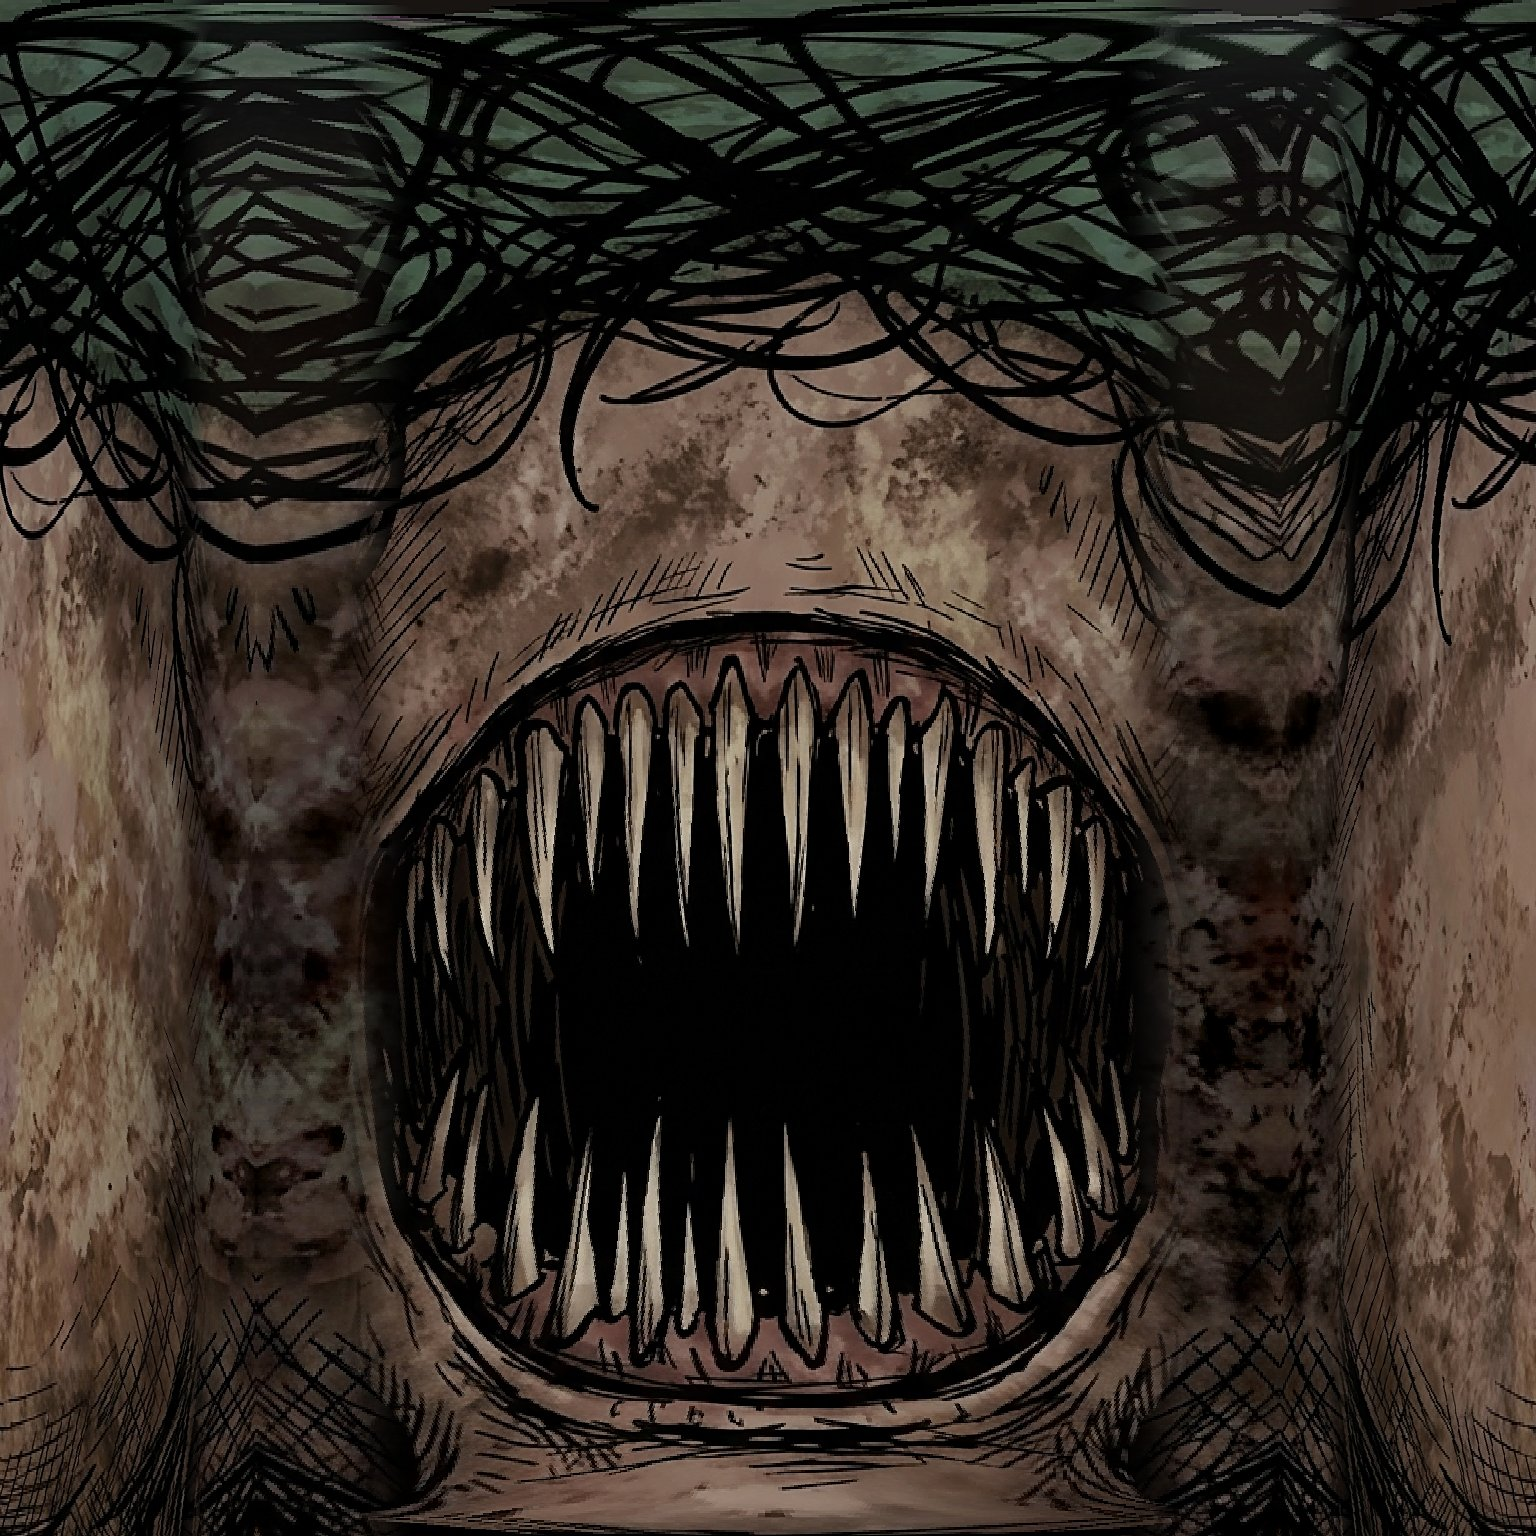
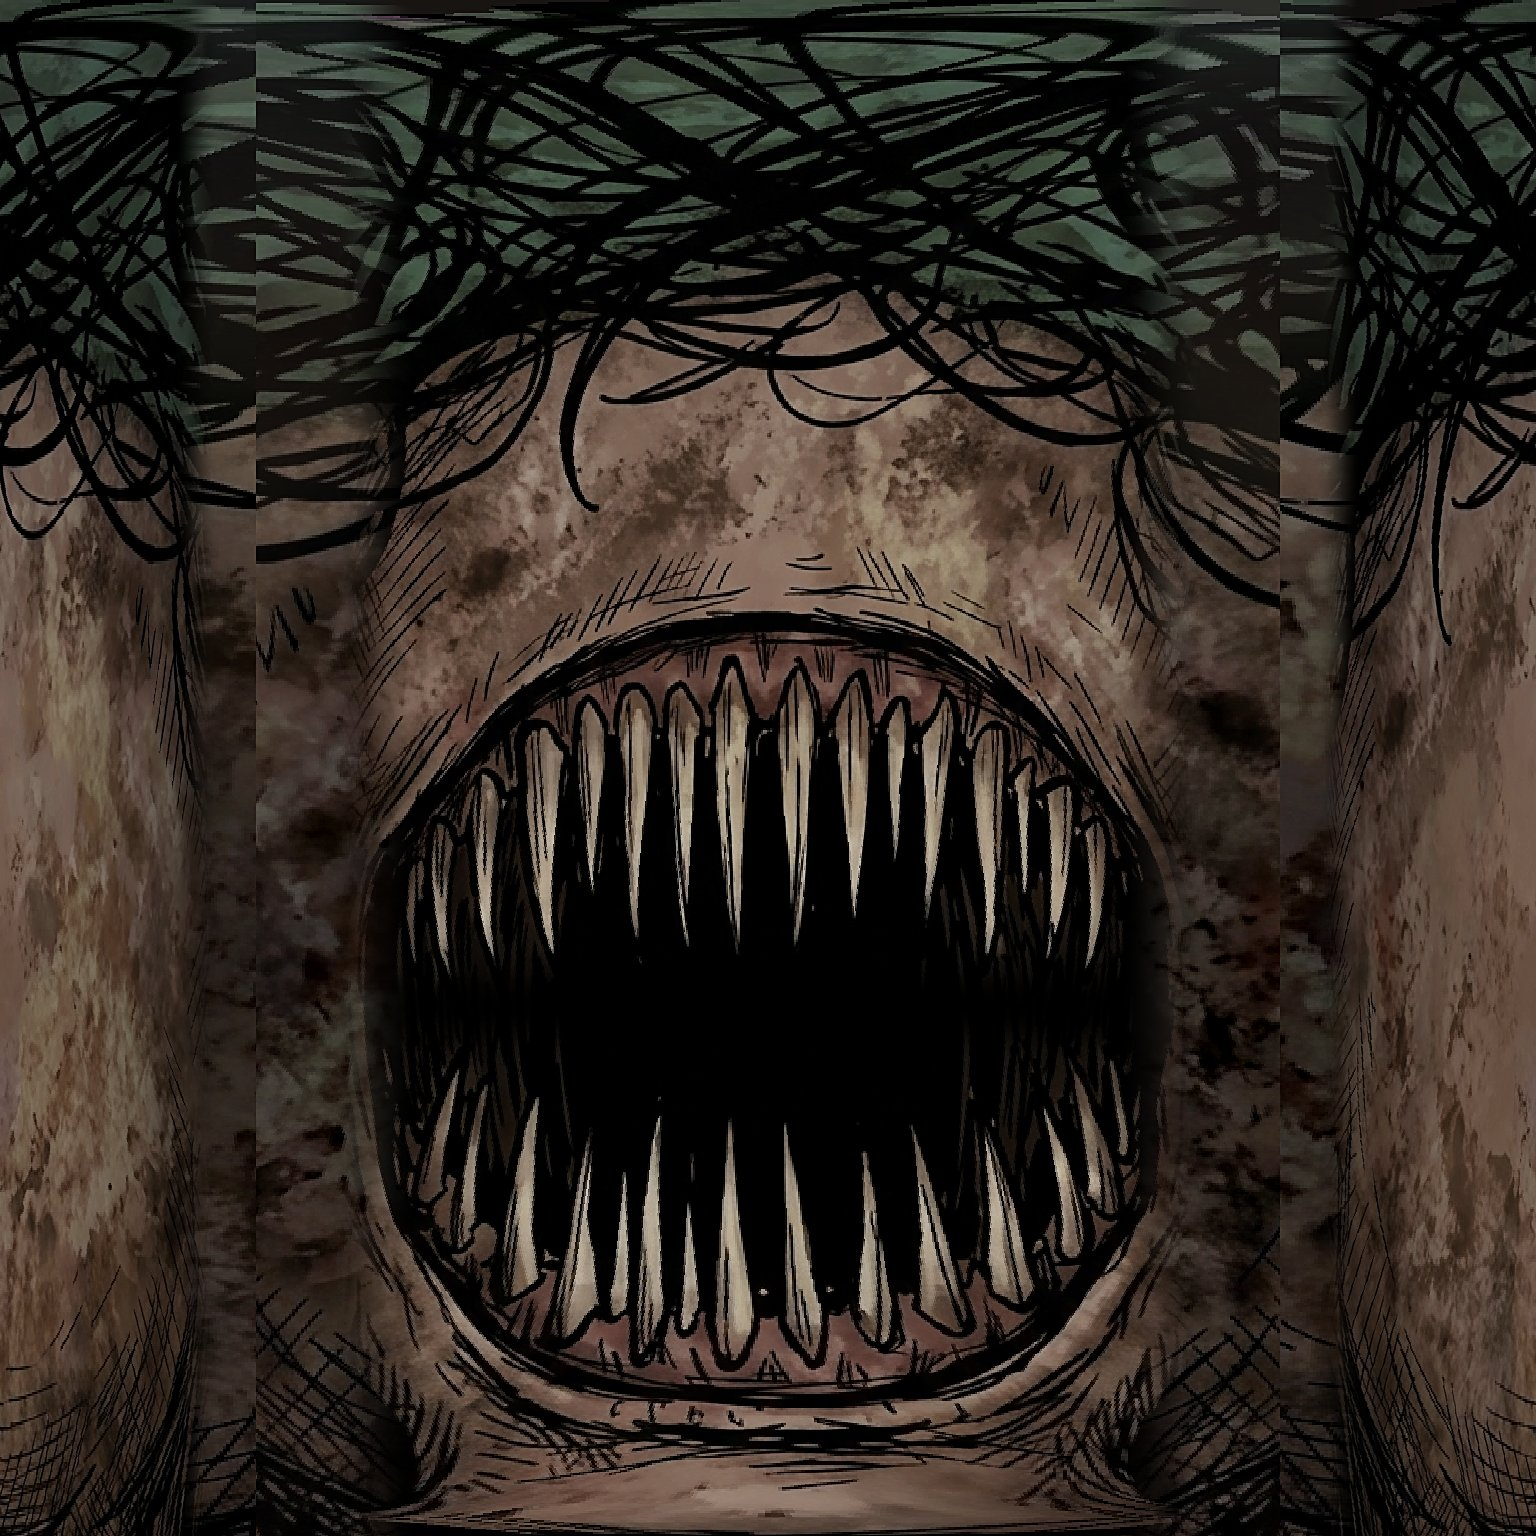
Maw: catch scene faces the camera, side hair, dark visibility
Claude-Session: https://claude.ai/code/session_01Hp3PPRWzBxDPqMYTGtr5h7

diff --git a/src/horror/creatureMaw.js b/src/horror/creatureMaw.js
@@ -16,7 +16,7 @@ const PALM = 0.16;
 const HIPS_Y = 1.29;
 const SPINE_UP = 0.06;
 const CHIN_Y = 1.78;
-const PIVOT = 0.3; // 머리 받침점 (턱에서 잰 높이). 잡히는 장면에서 입이 화면 가운데 온다
+const PIVOT = 0.13; // 머리 받침점 (턱에서 잰 높이). 잡히는 장면에서 입이 화면 가운데 온다
 const SHOULDER = { x: 0.224, y: 0.344 }; // 허리에서 잰 어깨 자리
 const HIP_X = 0.105;
 const HEAD_H = 0.913;
@@ -28,7 +28,7 @@ const HEAD_KEYS = [ // [높이, 반폭, 반두께, 앞뒤 치우침]
   [0.481, 0.3], [0.427, 0.299], [0.374, 0.283], [0.321, 0.271], [0.267, 0.261], [0.214, 0.249], [0.161, 0.234], [0.107, 0.202], [0.054, 0.161], [0.012, 0.09], [0, 0.02],
 ].map(([y, hw]) => [y, hw, hw * 0.86, 0]);
 const TORSO_KEYS = [ // 허리에서 잰 높이
-  [0.44, 0.03, 0.03, 0], [0.42, 0.13, 0.09, 0], [0.38, 0.22, 0.12, 0], [0.353, 0.25, 0.135, 0], [0.298, 0.235, 0.125, 0], [0.245, 0.166, 0.11, 0],
+  [0.56, 0.03, 0.03, 0], [0.54, 0.1, 0.09, 0], [0.42, 0.115, 0.1, 0], [0.39, 0.18, 0.115, 0], [0.353, 0.25, 0.135, 0], [0.298, 0.235, 0.125, 0], [0.245, 0.166, 0.11, 0],
   [0.19, 0.152, 0.1, 0], [0.137, 0.135, 0.09, 0], [0.082, 0.111, 0.08, 0], [0.029, 0.112, 0.08, 0], [-0.026, 0.147, 0.1, 0], [-0.078, 0.146, 0.105, 0], [-0.133, 0.145, 0.1, 0], [-0.17, 0.09, 0.07, 0], [-0.19, 0.02, 0.02, 0],
 ];
 // 손목에서 잰 손가락 중심선: [바깥쪽, 아래쪽]. 바깥쪽은 팔이 뻗은 쪽이다
@@ -41,7 +41,7 @@ const FINGERS = [
 const WRIST_DROP = 0.085; // 손가락 뼈가 손목보다 내려간 거리
 const FRONT_HEAD = 2 / 3; // 그림 폭 가운데 앞면이 차지하는 몫. 양쪽 끝이 뒷면이다
 const FRONT_LIMB = 1 / 2;
-const HAIR = { top: 1.005, bottom: 0.4335, x: 0.369, z: 0.32, inner: 0.88 }; // 머리털 그림이 덮는 높이와 둘레
+const HAIR = { top: 1.005, bottom: 0.4335, x: 0.42, z: 0.34, inner: 0.84 }; // 머리털 그림이 덮는 높이와 둘레
 const INK_UV = [0.004, 0.012]; // 머리털 그림 구석의 먹빛 칸
 // 몸 그림 한 장의 칸: [왼쪽, 위, 폭, 높이] (tools/make_maw_art.py 와 같다)
 const SHEET = 1024;
@@ -64,10 +64,10 @@ const POSE = {
 const POSE_KEYS = Object.keys(POSE.walk);
 const SKIN_COLOR = 0x2e2522; // 그림이 없을 때 살색
 const HAIR_COLOR = 0x12160f; // 그림이 없을 때 머리털 색
-const TINT = 0x8c8680; // 그림이 손전등 아래서 희게 날아가지 않게 누른다
-const HEAD_TINT = 0x8c8680;
+const TINT = 0x6e7476; // 그림이 손전등 아래서 희게 날아가지 않게 누른다
+const HEAD_TINT = 0x6e7476;
 const TEETH_GLOW = { patrol: 0.3, investigate: 0.45, search: 0.45, chase: 1, stunned: 0.05 };
-const TOOTH_LIGHT = 0.5; // 어둠 속에서 이빨이 뜨는 세기
+const TOOTH_LIGHT = 2.2; // 어둠 속에서 이빨이 뜨는 세기
 
 const cell = ([x, y, w, h], u, v) => [(x + u * w) / SHEET, 1 - (y + (1 - v) * h) / SHEET];
 const skinUv = () => cell(SKIN_CELL, 0.5, 0.5);
@@ -109,12 +109,12 @@ function hairGeometry() {
     rows: 3,
     segs: 28,
     uv: (p, t, w) => [flip ? 1 - wrapU(w, FRONT_LIMB) : wrapU(w, FRONT_LIMB), (p.y - HAIR.bottom) / (HAIR.top - HAIR.bottom)],
-    at: (t, w, out) => out.set(Math.sin(w) * HAIR.x * k, lerp(HAIR.top, HAIR.bottom, t), Math.cos(w) * HAIR.z * k),
+    at: (t, w, out) => out.set(Math.sin(w) * HAIR.x * k, lerp(HAIR.top, HAIR.bottom + 0.04, t), Math.cos(w) * HAIR.z * k), // 맨 아랫줄의 먹빛 칸은 비켜 간다
   });
   const parts = [shell(1, false), shell(HAIR.inner, true)];
   const cy = 0.74;
   const dot = (x, y, z, r) => [x * r, cy + y * r * 0.72, z * r * 0.9];
-  for (let i = 0; i < 16; i++) {
+  for (let i = 0; i < 12; i++) {
     let a = rand() * TAU;
     let e = rand() * 1.3;
     const step = 0.5 + rand() * 0.5;
@@ -142,7 +142,7 @@ function torsoGeometry(top, bottom, y0) {
   return surface({
     rows: 8,
     segs: 16,
-    uv: (p, t, w) => cell(TORSO_CELL, wrapU(w, FRONT_LIMB), (p.y + y0 - ART_BOTTOM) / (ART_TOP - ART_BOTTOM)),
+    uv: (p, t, w) => cell(TORSO_CELL, wrapU(w, FRONT_LIMB), clamp((p.y + y0 - ART_BOTTOM) / (ART_TOP - ART_BOTTOM), 0, 0.99)),
     at: (t, w, out) => {
       const y = lerp(top, bottom, t);
       const [hw, hd, cz] = sampleKeys(TORSO_KEYS, y);
@@ -190,7 +190,7 @@ function palmGeometry() {
     uv: stripUv(ARM_CELL, PALM, (UPPER + FORE) / (UPPER + FORE + PALM), 1),
     at: (t, w, out) => {
       const close = Math.min(1, Math.min(t, 1 - t) * 10 + 0.2);
-      return out.set(Math.sin(w) * 0.058 * close, -t * PALM, Math.cos(w) * 0.022 * close);
+      return out.set(Math.sin(w) * lerp(0.03, 0.048, t) * close, -t * PALM, Math.cos(w) * 0.02 * close);
     },
   });
 }
@@ -216,11 +216,11 @@ export class MawModel extends CreatureBase {
   constructor(scene, loader) {
     super(scene, loader);
     const matte = (o) => new THREE.MeshLambertMaterial(o); // 반사가 없어야 그림의 까만 입안과 먹선이 손전등 아래서도 까맣다
-    const skin = this.paper('art/horror_maw_head.jpg', SKIN_COLOR, HEAD_TINT, matte);
+    const skin = this.paper('art/horror_maw_head.jpg', SKIN_COLOR, HEAD_TINT, (o) => matte({ ...o, fog: false })); // 어둠 속 이빨 빛이 안개에 묻히지 않게
     this.glowMap(skin, 'art/horror_maw_glow.jpg');
     this.faceMat = skin;
     const body = this.paper('art/horror_maw_body.jpg', SKIN_COLOR, TINT, matte);
-    const hair = this.paper('art/horror_maw_hair.webp', HAIR_COLOR, TINT, (o) => new THREE.MeshLambertMaterial({ ...o, alphaTest: 0.4, side: THREE.DoubleSide }));
+    const hair = this.paper('art/horror_maw_hair.webp', HAIR_COLOR, TINT, (o) => new THREE.MeshLambertMaterial({ ...o, alphaTest: 0.3, side: THREE.DoubleSide }));
 
     const rig = new Rig(this.group);
     this.hips = rig.bone(null, 0, HIPS_Y, 0);
@@ -230,7 +230,7 @@ export class MawModel extends CreatureBase {
 
     this.head = rig.bone(this.spine, 0, CHIN_Y + PIVOT - HIPS_Y - SPINE_UP, 0.0);
     this.head.rotation.order = 'YXZ';
-    const shell = shellHead({ keys: HEAD_KEYS, edgeU: split, edgeL: split, mouthW: MOUTH.w, relief, uv: headUv, lipShade: 0, rows: 24, segs: 52 });
+    const shell = shellHead({ keys: HEAD_KEYS, edgeU: split, edgeL: split, mouthW: MOUTH.w, relief, uv: headUv, lipShade: 0, rows: 22, segs: 50 });
     const face = mergeGeometries([morphed(shell.skull), morphed(shell.jaw, jawMorph(shell.jaw, MOUTH)), morphed(throat(0.17, 0.42, -0.08)), morphed(throat(0.15, 0.22, -0.06))]);
     face.morphTargetsRelative = true; // 합치면 이 표시가 사라진다. 까만 덩어리 둘은 벌어진 입으로 몸이 보이지 않게 막는다
     this.face = this.add(this.head, face, skin, true, 0, -PIVOT, 0);
@@ -239,9 +239,9 @@ export class MawModel extends CreatureBase {
     const legLen = THIGH + SHIN;
     this.legs = [-1, 1].map((side) => {
       const hip = rig.bone(this.hips, side * HIP_X, -0.08);
-      rig.part('body', hip, mergeGeometries([knob(0.062, 0, -0.02, 0, skinUv), limb(THIGH, (t) => lerp(0.06, 0.036, smooth(t)), { rows: 6, segs: 8, uv: stripUv(LEG_CELL, THIGH, 0, THIGH / legLen) })]));
+      rig.part('body', hip, mergeGeometries([knob(0.062, 0, -0.02, 0, skinUv), limb(THIGH, (t) => lerp(0.06, 0.036, smooth(t)), { rows: 6, segs: 6, uv: stripUv(LEG_CELL, THIGH, 0, THIGH / legLen) })]));
       const knee = rig.bone(hip, 0, -THIGH);
-      rig.part('body', knee, mergeGeometries([knob(0.04, 0, -0.005, 0.005, skinUv), limb(SHIN, (t) => 0.026 + 0.01 * Math.sin(t * Math.PI), { rows: 6, segs: 8, uv: stripUv(LEG_CELL, SHIN, THIGH / legLen, 1) })]));
+      rig.part('body', knee, mergeGeometries([knob(0.04, 0, -0.005, 0.005, skinUv), limb(SHIN, (t) => 0.026 + 0.01 * Math.sin(t * Math.PI), { rows: 6, segs: 6, uv: stripUv(LEG_CELL, SHIN, THIGH / legLen, 1) })]));
       const ankle = rig.bone(knee, 0, -SHIN);
       rig.part('body', ankle, footGeometry(side));
       return { hip, knee, ankle, phase: side > 0 ? 0 : Math.PI };
@@ -249,11 +249,11 @@ export class MawModel extends CreatureBase {
 
     this.arms = [-1, 1].map((side) => {
       const shoulder = rig.bone(this.spine, side * SHOULDER.x, SHOULDER.y, 0);
-      rig.part('body', shoulder, mergeGeometries([knob(0.05, 0, 0, 0, skinUv), limb(UPPER, (t) => lerp(0.042, 0.03, t), { rows: 5, segs: 8, uv: stripUv(ARM_CELL, UPPER, 0, UPPER / armLen) })]));
+      rig.part('body', shoulder, mergeGeometries([knob(0.05, 0, 0, 0, skinUv), limb(UPPER, (t) => lerp(0.042, 0.03, t), { rows: 5, segs: 6, uv: stripUv(ARM_CELL, UPPER, 0, UPPER / armLen) })]));
       const elbow = rig.bone(shoulder, 0, -UPPER);
-      rig.part('body', elbow, mergeGeometries([knob(0.033, 0, 0, 0, skinUv), limb(FORE, (t) => lerp(0.031, 0.021, t), { rows: 5, segs: 8, uv: stripUv(ARM_CELL, FORE, UPPER / armLen, (UPPER + FORE) / armLen) })]));
+      rig.part('body', elbow, mergeGeometries([knob(0.03, 0, 0, 0, skinUv), limb(FORE, (t) => lerp(0.031, 0.021, t), { rows: 5, segs: 6, uv: stripUv(ARM_CELL, FORE, UPPER / armLen, (UPPER + FORE) / armLen) })]));
       const wrist = rig.bone(elbow, 0, -FORE);
-      rig.part('body', wrist, mergeGeometries([knob(0.026, 0, 0, 0, skinUv), palmGeometry()]));
+      rig.part('body', wrist, mergeGeometries([knob(0.022, 0, 0, 0, skinUv), palmGeometry()]));
       const fingers = rig.bone(wrist, 0, -WRIST_DROP);
       rig.part('body', fingers, fingersGeometry(side));
       return { shoulder, elbow, wrist, fingers, side, phase: side > 0 ? Math.PI : 0 };
@@ -265,6 +265,7 @@ export class MawModel extends CreatureBase {
 
     this.headHeight = 2.08;
     this.faceNear = 0.85; // 잡히는 장면에서 머리 받침점까지 거리 (미터). 입이 화면을 채운다
+    this.faceTilt = 0; // 잡히는 장면의 머리 기울기. 등을 숙인 만큼 되돌려 입이 정면을 본다
     this.pose = { ...POSE.walk };
     this.phase = 0;
     this.gait = 0;
@@ -321,6 +322,7 @@ export class MawModel extends CreatureBase {
 
     // 앞을 못 보니 머리를 좌우로 저으며 냄새를 맡는다
     const sniff = Math.sin(this.sweep) * p.sweep;
+    this.faceTilt = -p.lean;
     this.head.rotation.set(-p.lean * 0.75 + 0.05 * breath, sniff, sniff * 0.22);
     this.chewT -= dt;
     if (this.chewT <= 0) {

diff --git a/tools/creature_view.html b/tools/creature_view.html
@@ -60,7 +60,7 @@ window.view = async ({ who, mode = 'patrol', frozen = false, cam = [0, 1.6, 4], 
     model.update(s, 1 / 30, player);
   }
   if (face) { // HorrorGame.placeFace 와 같은 자리: 머리 받침점 위 0.2m 가 눈높이, 0.6m 앞
-    model.head.rotation.set(0, 0, 0);
+    model.head.rotation.set(model.faceTilt ?? 0, 0, 0);
     model.group.updateMatrixWorld(true);
     const p = model.head.getWorldPosition(new THREE.Vector3());
     model.group.position.y += 1.6 - p.y - 0.2;

diff --git a/src/horror/HorrorGame.js b/src/horror/HorrorGame.js
@@ -754,7 +754,7 @@ export class HorrorGame {
   placeFace(l, dt) {
     const m = l.model;
     m.update(l.shown, dt, this.p);
-    m.head.rotation.set(0, 0, 0);
+    m.head.rotation.set(m.faceTilt ?? 0, 0, 0);
     const stop = m.faceNear ?? FACE_NEAR; // 긴 이빨이 카메라를 뚫는 괴물은 더 멀리 선다
     const near = stop + (FACE_FAR - stop) * (1 - Math.min(1, l.t / LUNGE_TIME)) ** 2;
     m.group.updateMatrixWorld(true);

diff --git a/tools/make_maw_art.py b/tools/make_maw_art.py
@@ -92,17 +92,21 @@ rows = np.linspace(CROWN + 4, CHIN - 1, HEAD_PX).astype(int)
 tone = side_tone(front, rows, np.maximum(hw, 60), CX, 16, 0.8)
 # 뒤 그림은 머리와 목이 함께 있어 머리뼈 아래 끝(뒤통수 그늘)까지만 쓴다
 rows_b = np.linspace(CROWN + 4, 800, HEAD_PX).astype(int)
-head = wrap(rows, rows_b, np.maximum(hw, 8), np.maximum(hw, 8), cover_bg(front, mask), cover_bg(back, mask_b), CX, CX, HEAD_W, FRONT_HEAD, 14, tone)
+yy, xx = np.mgrid[0:front.shape[0], 0:front.shape[1]]
+ang = np.degrees(np.arctan2(np.abs(xx - MOUTH[0]), MOUTH[1] - yy))
+inside = np.hypot(xx - MOUTH[0], yy - MOUTH[1]) < edge_at(ang) * 0.93
+# 입이 갈라지는 줄 둘레는 새까맣게 칠해서, 턱이 내려가도 까만 틈의 경계가 보이지 않는다
+night = 1 - inside * np.exp(-(((yy - MOUTH[1]) / 26.0) ** 2)) * np.clip(1.3 - np.abs(xx - MOUTH[0]) / 330, 0, 1).clip(0, 1) ** 0.3
+back_plain = (cover_bg(back, mask_b) * 0.85).astype('uint8')
+head = wrap(rows, rows_b, np.maximum(hw, 8), np.maximum(hw, 8), (cover_bg(front, mask) * night[..., None]).astype('uint8'), back_plain, CX, CX, HEAD_W, FRONT_HEAD, 14, tone, -0.25)
 Image.fromarray(head).filter(ImageFilter.UnsharpMask(2, 50, 2)).save(f'{OUT}/horror_maw_head.jpg', quality=85)
 
 # 이빨 빛: 입 안쪽에서 밝고 누런 곳만 남긴다. 머리 그림과 같은 자리에 온다
-h, w = front.shape[:2]
-yy, xx = np.mgrid[0:h, 0:w]
-ang = np.degrees(np.arctan2(np.abs(xx - MOUTH[0]), MOUTH[1] - yy))
-inside = np.hypot(xx - MOUTH[0], yy - MOUTH[1]) < edge_at(ang) * 0.93
 lum = front.astype(float).mean(-1)
-teeth = (np.clip((lum - 110) / 70, 0, 1) * inside * 255).astype('uint8')
-glow_rgb = np.dstack([teeth] * 3)
+teeth = np.clip((lum - 90) / 60, 0, 1) * inside
+teeth = np.asarray(Image.fromarray((teeth * 255).astype('uint8')).filter(ImageFilter.MaxFilter(3)))
+face_glow = lum * mask * ~inside * 0.05  # 살도 아주 희미하게 떠서 어둠에서 머리 윤곽이 잡힌다
+glow_rgb = np.dstack([np.maximum(teeth, face_glow).astype('uint8')] * 3)
 glow = wrap(rows, rows_b, np.maximum(hw, 8), np.maximum(hw, 8), glow_rgb, np.zeros_like(back), CX, CX, HEAD_W // 2, FRONT_HEAD, 14, np.zeros_like(tone))[::2]
 Image.fromarray(glow).filter(ImageFilter.GaussianBlur(1)).save(f'{OUT}/horror_maw_glow.jpg', quality=80)
 
@@ -110,22 +114,29 @@ Image.fromarray(glow).filter(ImageFilter.GaussianBlur(1)).save(f'{OUT}/horror_ma
 def hair_half(rgb):
     a = rgb.astype(float)
     pink = np.minimum(a[..., 0], a[..., 2]) - a[..., 1]
-    keep = 1 - np.clip((pink - 30) / 60, 0, 1)
+    keep = 1 - np.clip((pink - 20) / 200, 0, 1)  # 먹선 가장자리까지 살려서 멀리서도 가닥이 보인다
+    keep[(a[..., 0] - a[..., 1] > 8) & (a[..., 0] > 60) & (pink <= 20)] = 0  # 머리털 사이로 보이는 살은 뺀다. 살은 머리 그림에 있다
     line = np.interp(np.abs(np.arange(rgb.shape[1]) - CX), *zip(*HAIR_LINE)) + 50
     fade = np.clip((line[None, :] - np.arange(rgb.shape[0])[:, None]) / 50, 0, 1)
     cut = rgb.copy()
-    for c in (0, 2):
-        cut[..., c] = np.where(keep < 1, np.minimum(cut[..., c], cut[..., 1] + 20), cut[..., c])
+    cut[pink > 20] = (8, 10, 8)  # 마젠타가 섞인 곳은 먹빛으로
     return np.dstack([cut, (keep * fade * 255).astype('uint8')])
 
 
 HAIR_ROWS = 560  # 머리털 그림을 쓰는 줄 수
+SIDE_HAIR = 140  # 옆머리를 메우는 반폭
 n = front.shape[1]
 strip = np.zeros((HAIR_ROWS, n * 2, 4), 'uint8')
 strip[:, n // 2:n // 2 + n] = hair_half(front)[:HAIR_ROWS]
 back_hair = hair_half(back)[:HAIR_ROWS]  # 옆을 돌아 뒤로 가면 뒤 그림의 왼쪽 끝부터 이어진다
 strip[:, :n // 2] = back_hair[:, n // 2:]
 strip[:, n // 2 + n:] = back_hair[:, :n // 2]
+# 그림 양끝은 비어 있으니, 옆머리는 뒤 그림 가운데 머리털을 세로로 늘여 메운다. 옆에서도 한 덩어리로 보인다
+side = Image.fromarray(back_hair[:330, CX - SIDE_HAIR:CX + SIDE_HAIR], 'RGBA').resize((SIDE_HAIR * 2, 440))
+side = np.asarray(side)
+for seam in (n // 2, n // 2 + n):
+    area = strip[40:480, seam - SIDE_HAIR:seam + SIDE_HAIR]
+    area[side[..., 3] > area[..., 3]] = side[side[..., 3] > area[..., 3]]
 strip[-16:, :16] = (8, 8, 6, 255)  # 먹빛 한 칸: 3D 머리털 가닥이 여기를 쓴다
 Image.fromarray(strip, 'RGBA').resize((HAIR_W, HAIR_H), Image.LANCZOS).save(f'{OUT}/horror_maw_hair.webp', quality=85, method=6)
 

diff --git a/tools/wrap_art.py b/tools/wrap_art.py
@@ -32,8 +32,9 @@ def smooth(v, n=31):
     return np.convolve(np.pad(v, n // 2, mode='edge'), k, 'valid')
 
 
-def wrap(rows_f, rows_b, hw_f, hw_b, rgb_f, rgb_b, cx_f, cx_b, width, front, inset, tone):
+def wrap(rows_f, rows_b, hw_f, hw_b, rgb_f, rgb_b, cx_f, cx_b, width, front, inset, tone, grain_back=0.6):
     # 그림 한 줄마다: 앞면은 윤곽 안쪽 그림, 뒷면은 뒷모습 그림, 윤곽 밖 띠는 tone 으로 이어 붙인다
+    # grain_back: 뒤쪽 옆구리 잔금을 뜨는 자리. 앞쪽(0.6)과 다르게 주면 옆구리 선을 기준으로 얼룩이 거울처럼 겹치지 않는다
     out = np.zeros((len(rows_f), width, 3))
     u = (np.arange(width) + 0.5) / width
     is_front = np.abs(u - 0.5) < front / 2
@@ -46,7 +47,7 @@ def wrap(rows_f, rows_b, hw_f, hw_b, rgb_f, rgb_b, cx_f, cx_b, width, front, ins
         xf = (cx_f + s * max(hw_f[rf] - inset, 1)).round().astype(int).clip(0, rgb_f.shape[1] - 1)
         xb = (cx_b - s * max(hw_b[rb] - inset, 1)).round().astype(int).clip(0, rgb_b.shape[1] - 1)
         row = np.where(is_front[:, None], rgb_f[rf, xf], rgb_b[rb, xb]).astype(float)
-        side = tone[y] + grain[rb, (cx_b - s * max(hw_b[rb] - inset, 1) * 0.6).round().astype(int).clip(0, rgb_b.shape[1] - 1)]
+        side = tone[y] + grain[rb, (cx_b - s * max(hw_b[rb] - inset, 1) * np.where(is_front, 0.6, grain_back)).round().astype(int).clip(0, rgb_b.shape[1] - 1)]
         out[y] = row * shadow * fade + side * (1 - fade)
     return out.clip(0, 255).astype('uint8')
 
